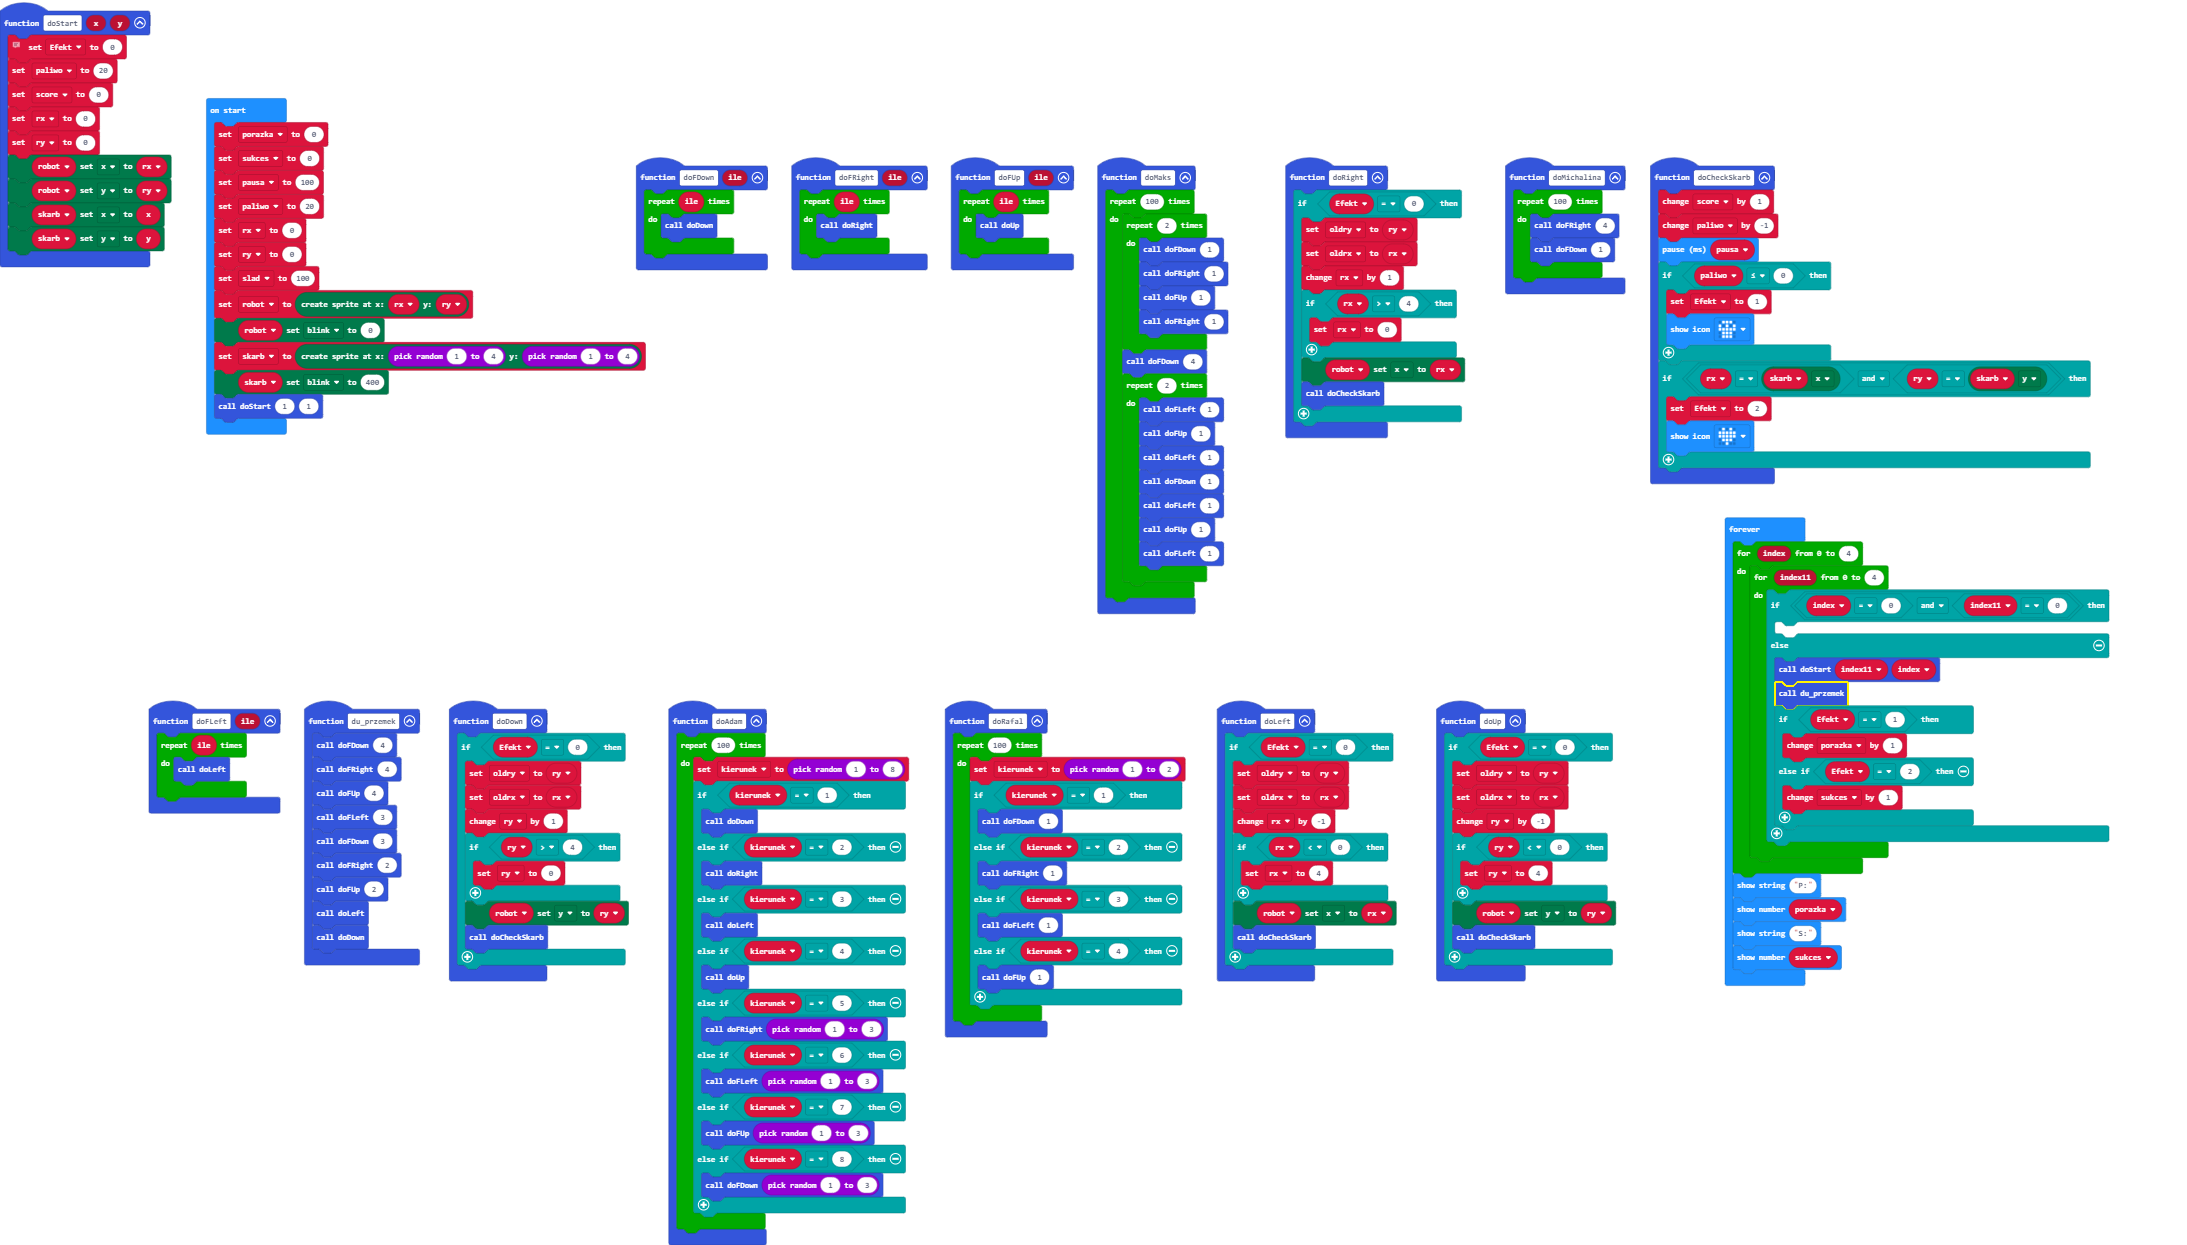
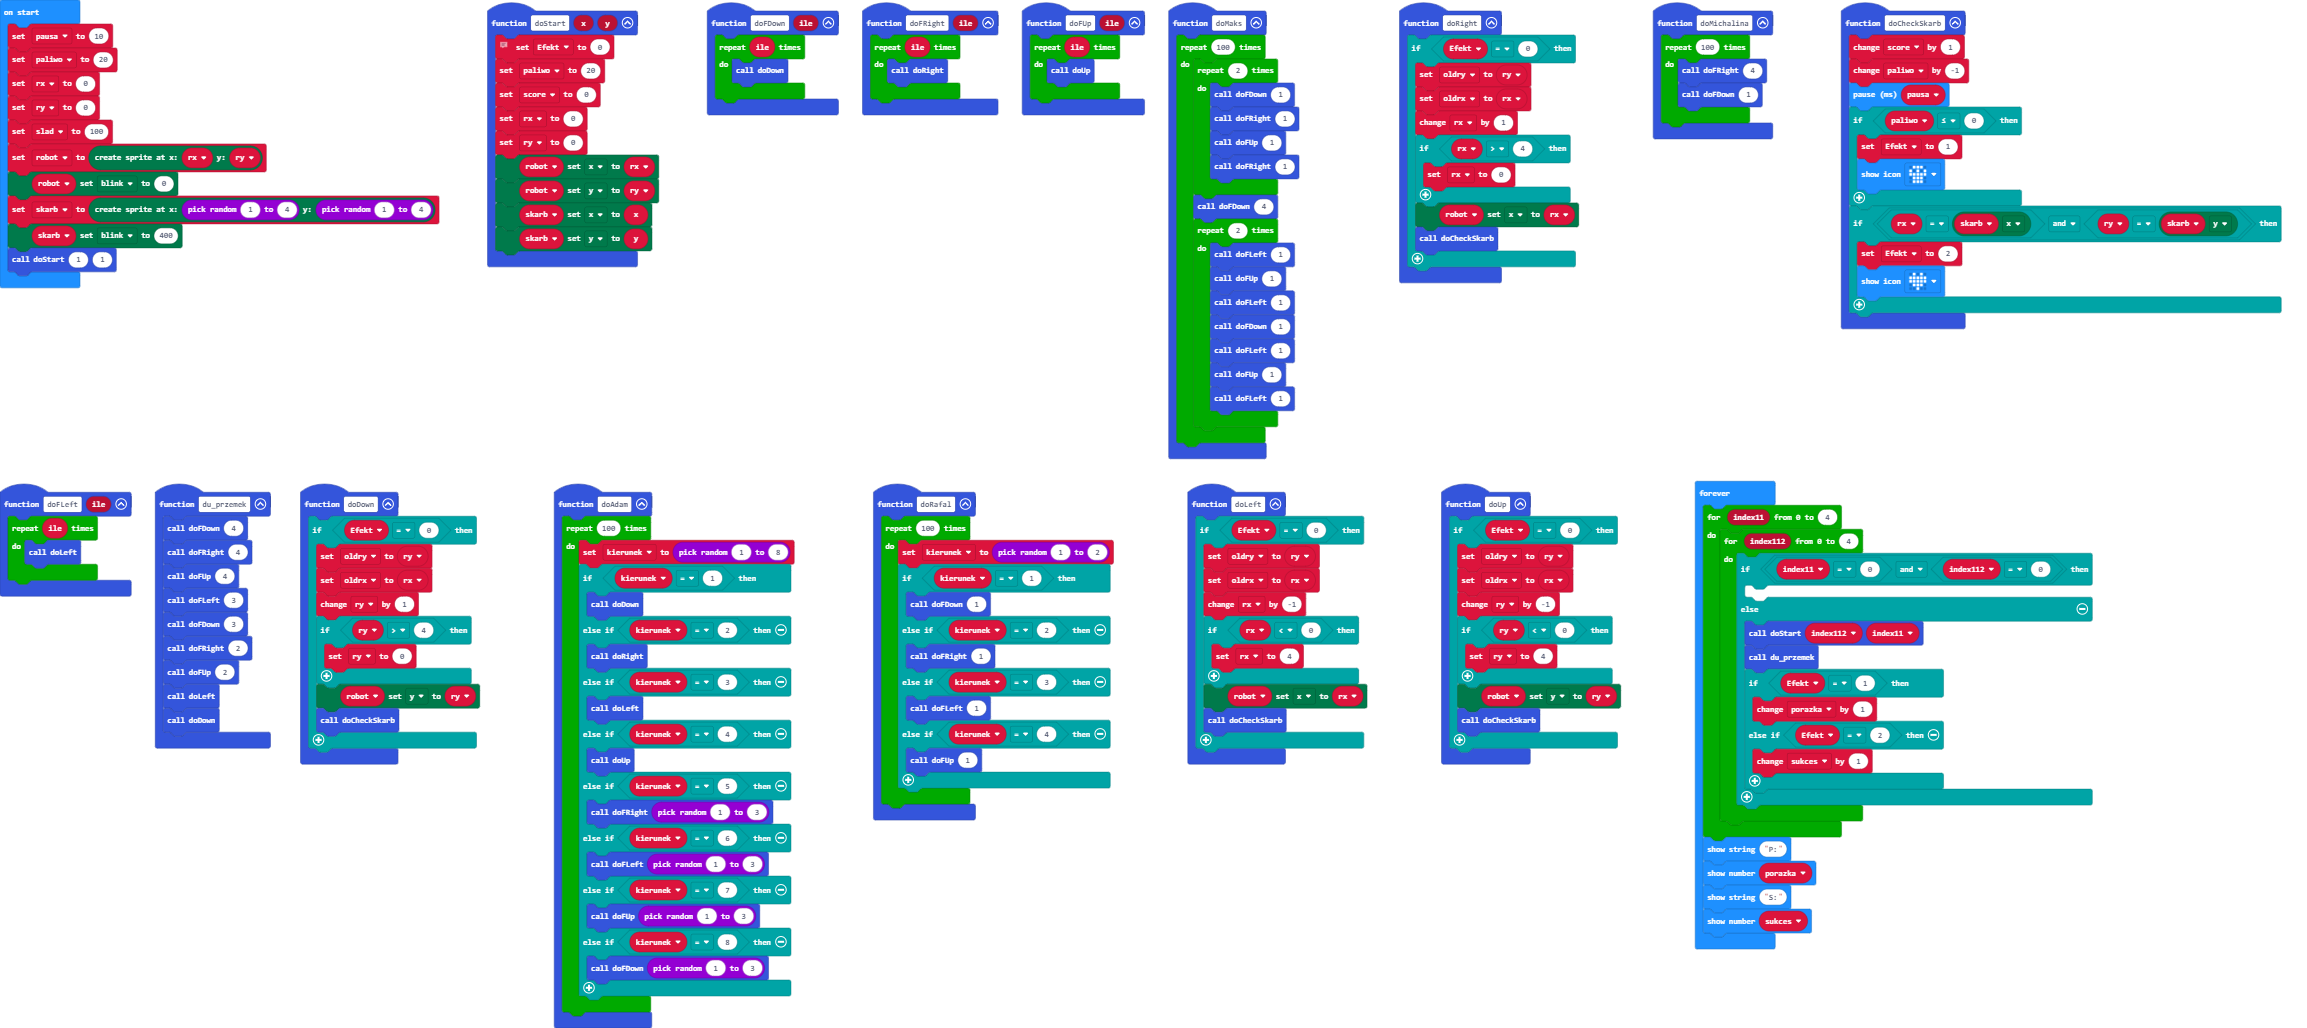
Update pxt.json, main.blocks, main.ts

diff --git a/main.ts b/main.ts
@@ -166,6 +166,8 @@ function doUp () {
         doCheckSkarb()
     }
 }
+let sukces = 0
+let porazka = 0
 let kierunek = 0
 let oldrx = 0
 let oldry = 0
@@ -177,9 +179,7 @@ let ry = 0
 let rx = 0
 let paliwo = 0
 let pausa = 0
-let porazka = 0
-let sukces = 0
-pausa = 100
+pausa = 10
 paliwo = 20
 rx = 0
 ry = 0
@@ -190,12 +190,12 @@ skarb = game.createSprite(randint(1, 4), randint(1, 4))
 skarb.set(LedSpriteProperty.Blink, 400)
 doStart(1, 1)
 basic.forever(function () {
-    for (let index = 0; index <= 4; index++) {
-        for (let index11 = 0; index11 <= 4; index11++) {
-            if (index == 0 && index11 == 0) {
+    for (let index11 = 0; index11 <= 4; index11++) {
+        for (let index112 = 0; index112 <= 4; index112++) {
+            if (index11 == 0 && index112 == 0) {
             	
             } else {
-                doStart(index11, index)
+                doStart(index112, index11)
                 du_przemek()
                 if (Efekt == 1) {
                     porazka += 1
@@ -205,6 +205,7 @@ basic.forever(function () {
             }
         }
     }
+    basic.clearScreen()
     basic.showString("P:")
     basic.showNumber(porazka)
     basic.showString("S:")
